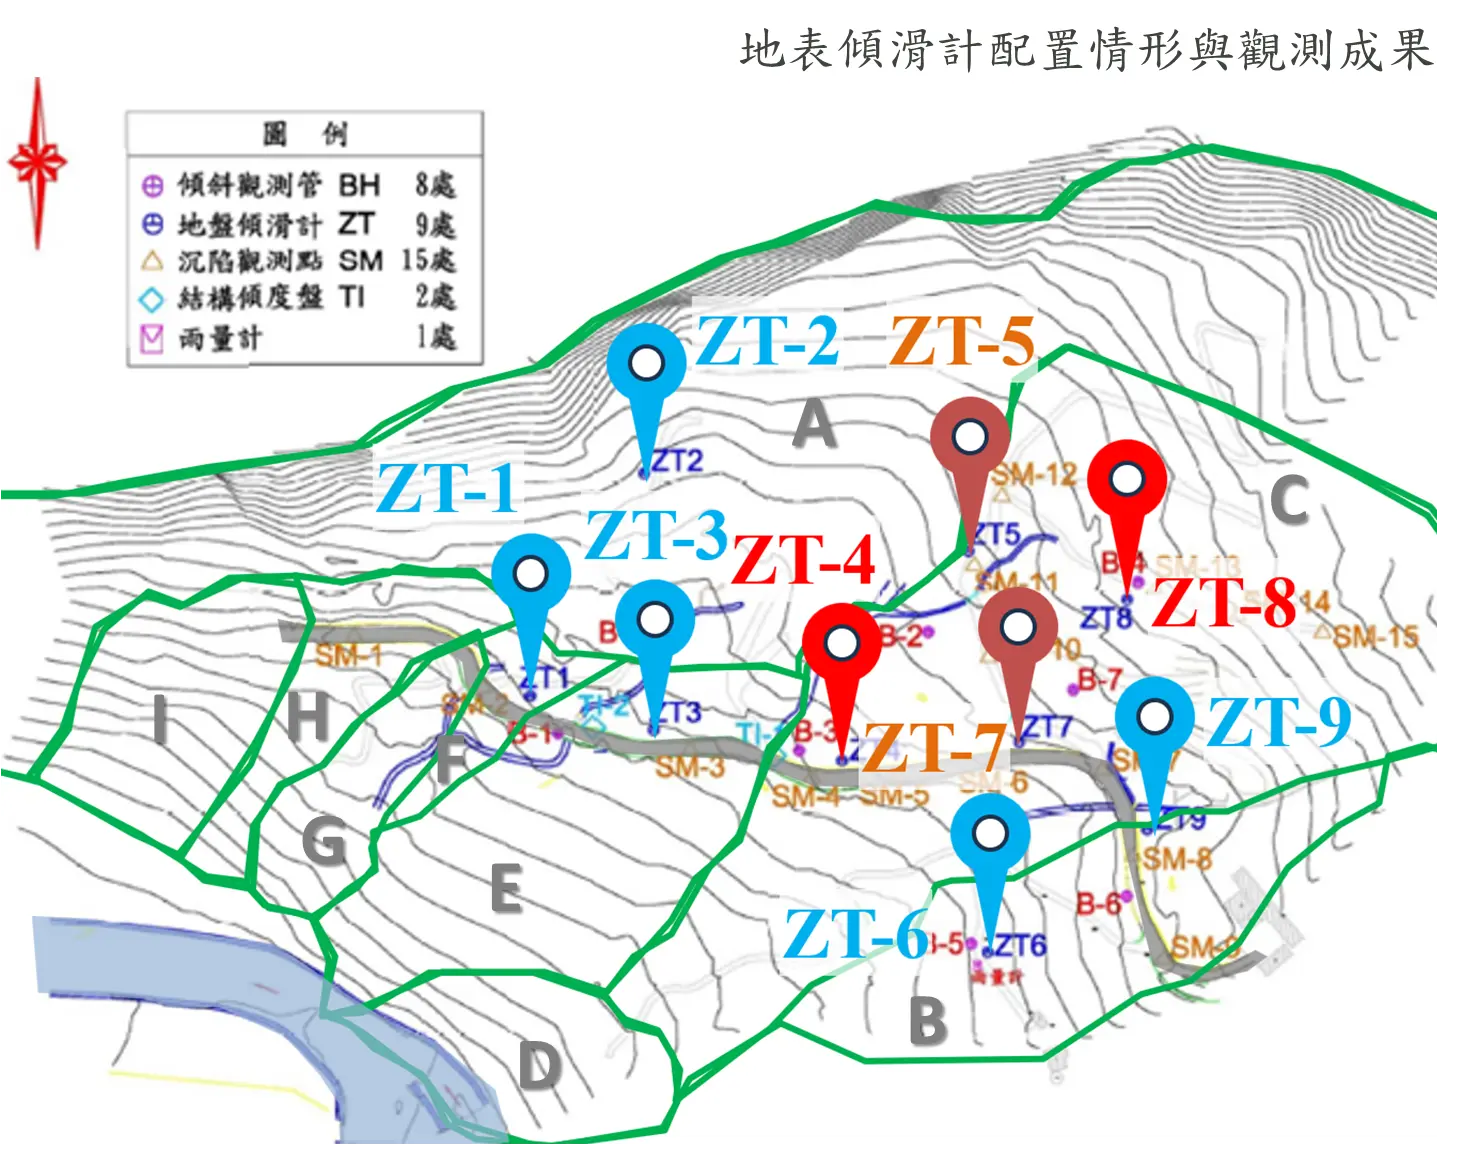
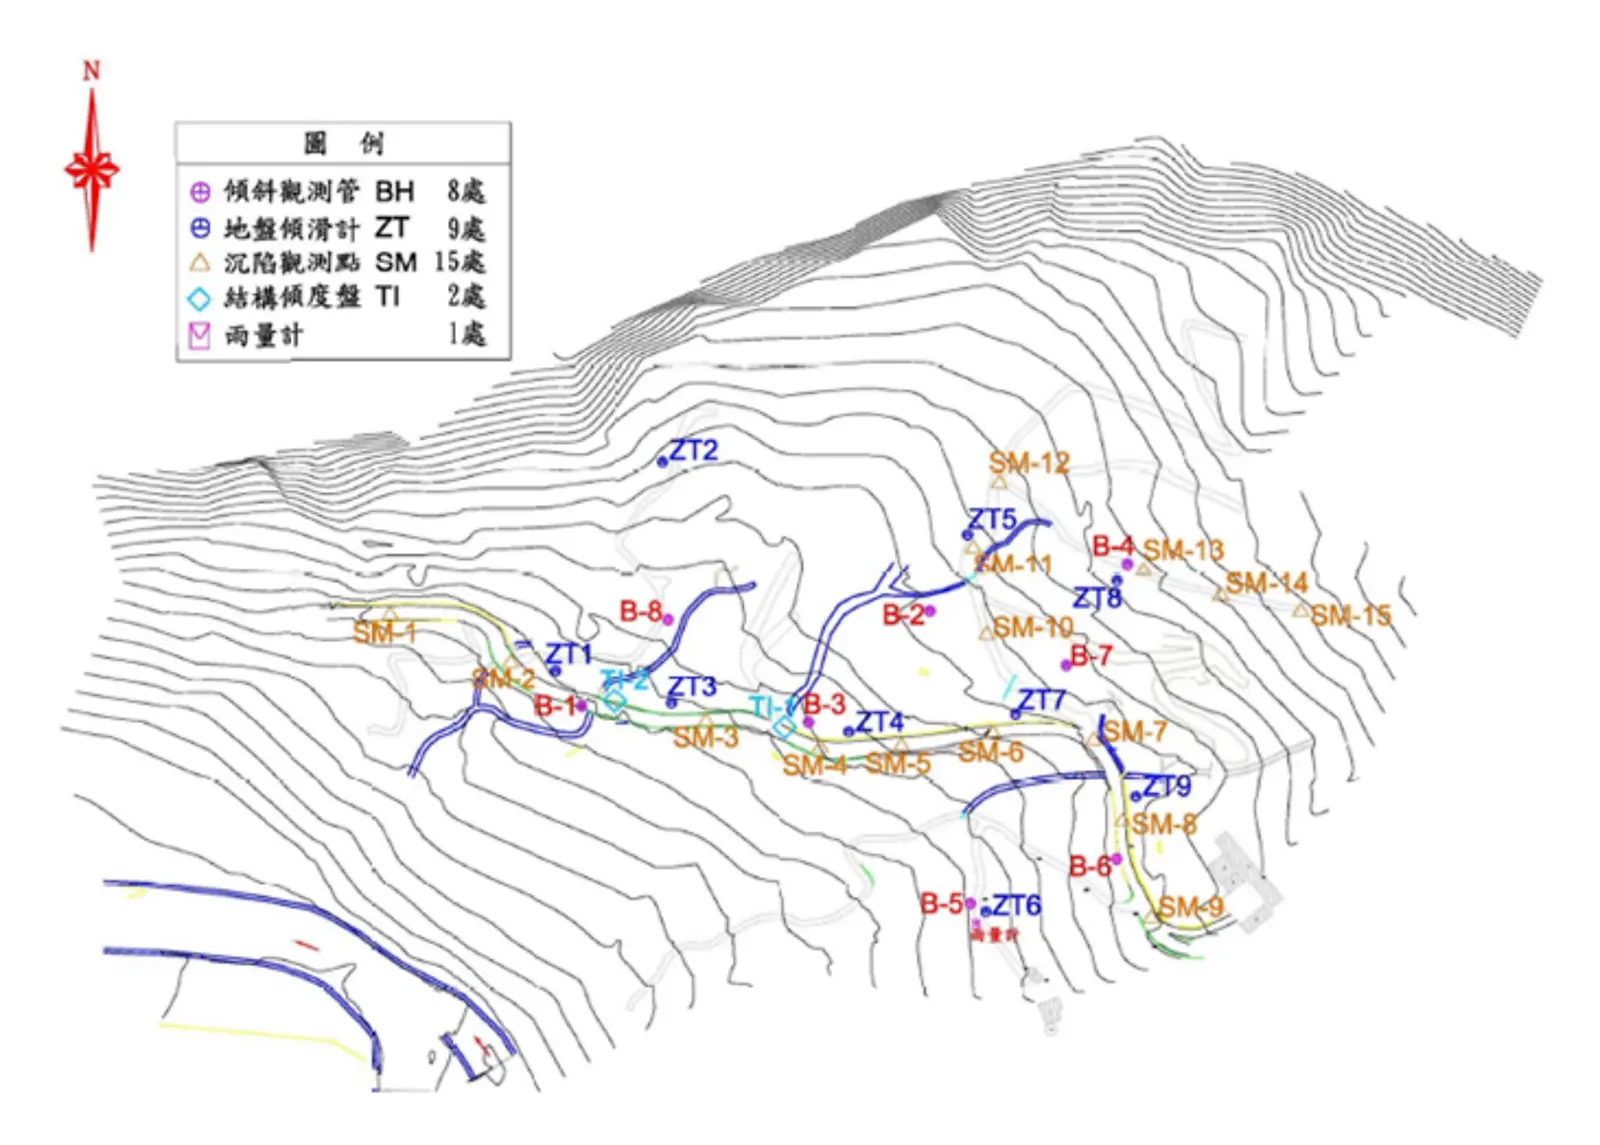
Refine monitoring map presentation

diff --git a/src/pages/Technology.tsx b/src/pages/Technology.tsx
@@ -295,18 +295,68 @@ export default function Technology() {
             </Reveal>
           </div>
 
-          <Reveal>
-            <figure className="mt-8 overflow-hidden rounded-3xl bg-sand-50 p-4 ring-1 ring-sand-200 sm:p-7">
-              <img
-                src={`${ASSET_DIR}/monitoring-map.webp`}
-                alt="地表傾滑計與傾斜觀測管配置及成果比較圖"
-                className="w-full object-contain"
-              />
-              <figcaption className="mt-4 text-center text-xs text-slate-400">
-                地表傾滑計與傾斜觀測管配置及觀測成果整合示意。
-              </figcaption>
-            </figure>
-          </Reveal>
+          <div className="mt-8 grid gap-6 lg:grid-cols-[1.45fr_0.55fr]">
+            <Reveal>
+              <figure className="overflow-hidden rounded-3xl bg-white p-4 ring-1 ring-sand-200 sm:p-7">
+                <div className="mb-5 flex flex-wrap items-end justify-between gap-3 border-b border-sand-200 pb-5">
+                  <div>
+                    <p className="text-xs font-bold tracking-[0.2em] text-emerald2-600 uppercase">Monitoring layout</p>
+                    <h3 className="mt-2 text-xl font-black text-brand-900">監測網配置</h3>
+                  </div>
+                  <span className="rounded-full bg-sand-100 px-3 py-1.5 text-xs font-bold text-slate-500">ZT · BH · SM · TI · 雨量計</span>
+                </div>
+                <img
+                  src={`${ASSET_DIR}/monitoring-map.webp`}
+                  alt="地表傾滑計、傾斜觀測管、沉陷觀測點、結構傾度盤及雨量計配置圖"
+                  className="w-full object-contain"
+                />
+                <figcaption className="mt-5 border-t border-sand-200 pt-4 text-xs leading-relaxed text-slate-400">
+                  原始監測配置圖經裁切與清晰化處理；測點位置、編號與圖例內容均維持原始資料。
+                </figcaption>
+              </figure>
+            </Reveal>
+
+            <Reveal direction="right">
+              <aside className="flex h-full flex-col gap-4 rounded-3xl bg-sand-50 p-6 ring-1 ring-sand-200 lg:p-7">
+                <div>
+                  <p className="text-xs font-bold tracking-[0.2em] text-emerald2-600 uppercase">Observed response</p>
+                  <h3 className="mt-2 text-xl font-black text-brand-900">觀測結果摘要</h3>
+                  <p className="mt-3 text-sm leading-relaxed text-slate-500">
+                    將複雜標註移出圖面，以分級摘要呈現事件期間的重要結果。
+                  </p>
+                </div>
+
+                <div className="rounded-2xl bg-white p-5 ring-1 ring-sand-200">
+                  <p className="text-xs font-bold text-slate-400">達警戒值範圍</p>
+                  <div className="mt-3 flex flex-wrap gap-2">
+                    {["ZT-4", "ZT-5", "ZT-7", "ZT-8"].map((station) => (
+                      <span key={station} className="rounded-full bg-orange-50 px-3 py-1.5 text-xs font-black text-orange-700 ring-1 ring-orange-200">
+                        {station}
+                      </span>
+                    ))}
+                  </div>
+                </div>
+
+                <div className="rounded-2xl bg-white p-5 ring-1 ring-sand-200">
+                  <p className="text-xs font-bold text-slate-400">發生坡面滑動</p>
+                  <div className="mt-3 flex gap-2">
+                    {["ZT-4", "ZT-8"].map((station) => (
+                      <span key={station} className="rounded-full bg-red-50 px-3 py-1.5 text-xs font-black text-red-700 ring-1 ring-red-200">
+                        {station}
+                      </span>
+                    ))}
+                  </div>
+                </div>
+
+                <div className="mt-auto rounded-2xl bg-brand-900 p-5 text-white">
+                  <p className="text-xs font-bold tracking-[0.16em] text-emerald2-300 uppercase">Cross validation</p>
+                  <p className="mt-2 text-sm font-bold leading-relaxed">
+                    ZT 與傳統傾斜管成果皆顯示滑動分區 C 較為活躍。
+                  </p>
+                </div>
+              </aside>
+            </Reveal>
+          </div>
         </div>
       </section>
 
